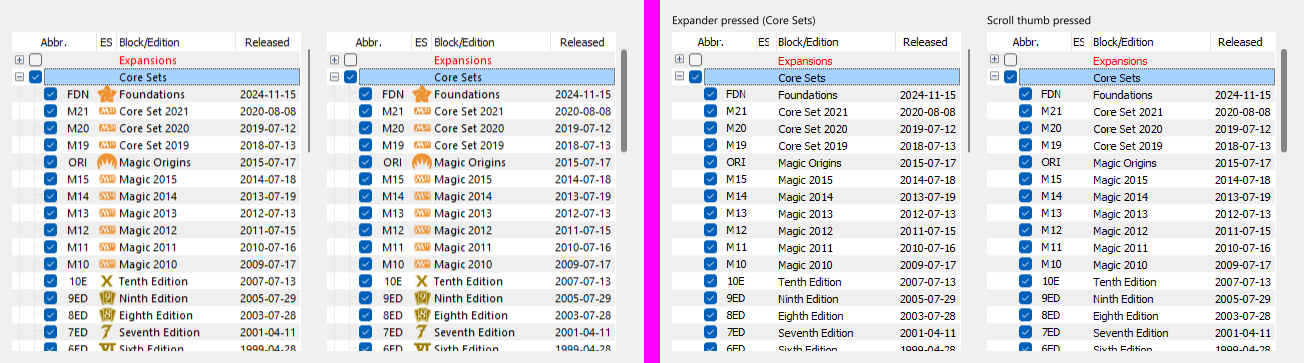
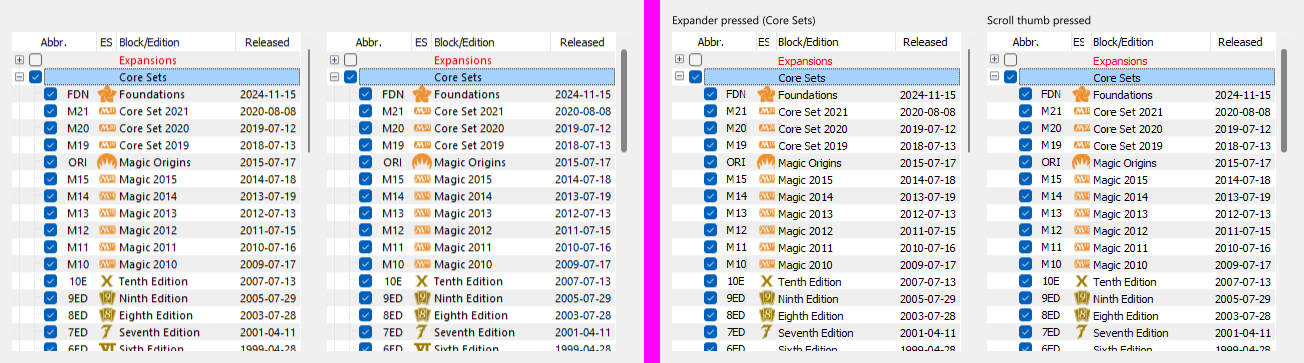
Windows light tree list: draw v3's edition pictures in the ES column as pixel tiles
scripts/gen_wintreeicon.py cuts the 15 visible editions' 22 x 16 pictures from the Filter tree capture; they have no flat runs, so the flat pixel counts do not move (tree_list_expanded 159 per crop), but the sheet no longer leaves the column empty.

diff --git a/scripts/gen_wintreeicon.py b/scripts/gen_wintreeicon.py
@@ -1,0 +1,19 @@
+"""Bakes v3's edition pictures of the Filter tree (the 15 visible editions of Core Sets, 22 x 16 px each) into lib/e/ui/wintreeicon.e.
+Cut from docs/ui/looks/ref/windows/tree_list_expanded.png: edition k (0 Foundations ...) is the row at y 85 + 17 k, the picture sits at x 96 to 117
+under the row face (#EFEFEF on an even row, white on an odd one), which is not painted. Edit this script, not the generated file."""
+from PIL import Image
+im = Image.open('docs/ui/looks/ref/windows/tree_list_expanded.png').convert('RGB')
+N, W, H = 15, 22, 16
+vals = []
+for k in range(N):
+    top = 85 + 17 * k
+    face = (239, 239, 239) if k % 2 == 0 else (255, 255, 255)
+    for y in range(H):
+        for x in range(W):
+            p = im.getpixel((96 + x, top + 1 + y))
+            vals.append(0 if p == face else 0xFF000000 | p[0] << 16 | p[1] << 8 | p[2])
+open('lib/e/ui/wintreeicon.e', 'w', newline='\n').write(
+    '// GENERATED by scripts/gen_wintreeicon.py from ref/windows/tree_list_expanded.png: v3\'s edition pictures in the Filter tree, %d tiles of %d x %d,\n'
+    '// 0xAARRGGBB, alpha 0 = the row face. Edit the script, not this file.\n\n'
+    'fn count() -> usize { ret %dusize }\nfn w() -> usize { ret %dusize }\nfn h() -> usize { ret %dusize }\n'
+    'fn atlas() -> [%d]u32 { ret [%d]u32{ %s } }\n' % (N, W, H, N, W, H, len(vals), len(vals), ', '.join('0x%08Xu32' % v for v in vals)))
